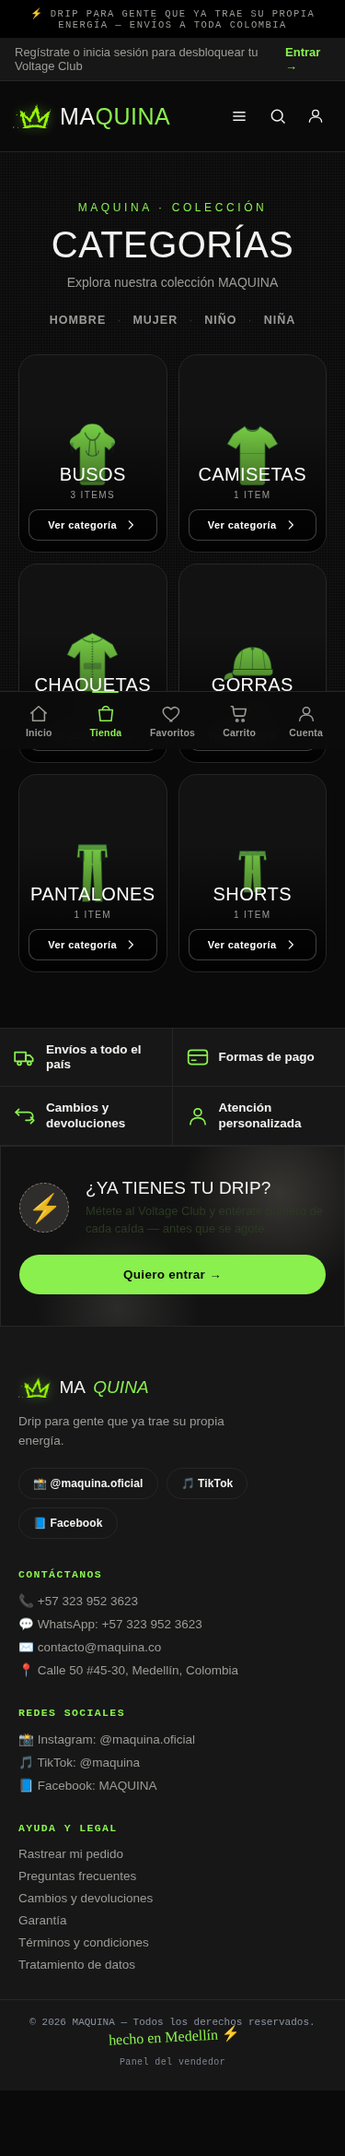
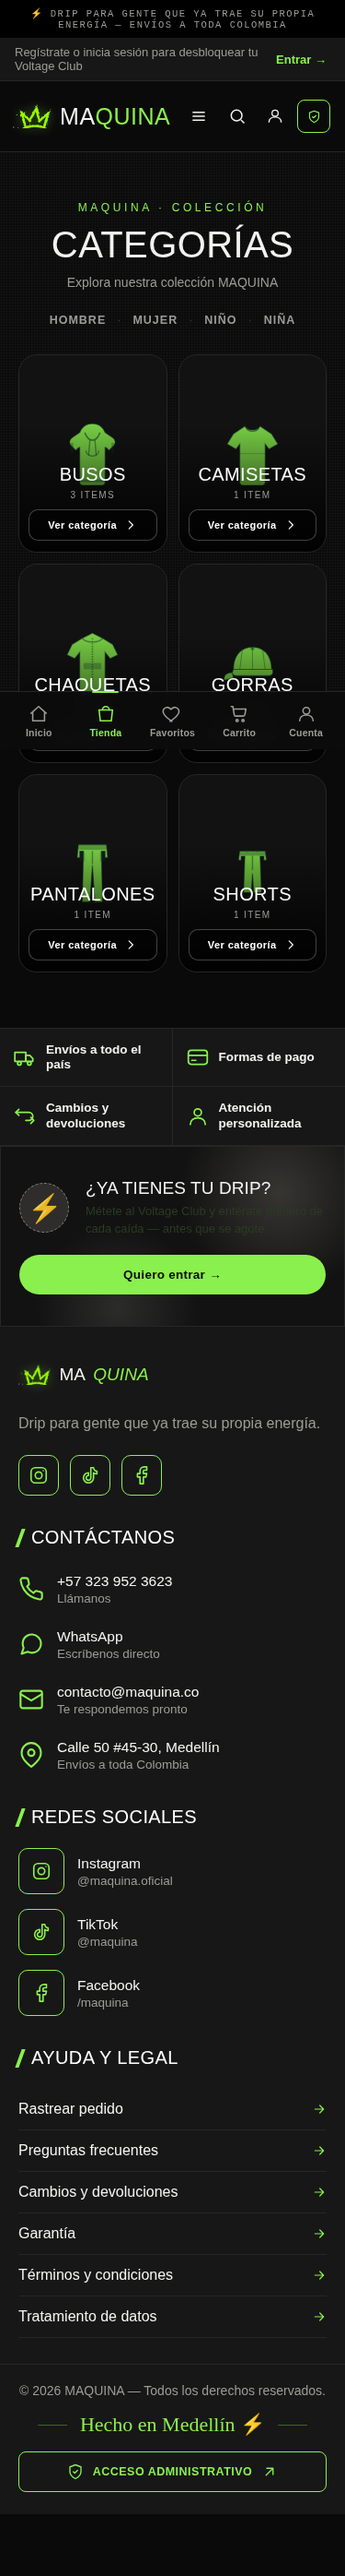
act

diff --git a/js/layout.js b/js/layout.js
@@ -81,6 +81,7 @@ function renderHeader(paginaActual = "") {
           <svg class="icon-btn" viewBox="0 0 24 24" fill="none" stroke="currentColor" stroke-width="1.8"><circle cx="11" cy="11" r="7"/><path d="m21 21-4.3-4.3"/></svg>
         </button>
         ${cuentaHtml}
+        <a href="admin.html" class="admin-access" aria-label="Acceso admin" title="Acceso admin"><svg viewBox="0 0 24 24" fill="none" stroke="currentColor" stroke-width="1.8" stroke-linecap="round" stroke-linejoin="round" aria-hidden="true"><path d="M12 22s8-4 8-10V5l-8-3-8 3v7c0 6 8 10 8 10z"/><path d="m9 12 2 2 4-4"/></svg><span class="admin-access-txt">Acceso admin</span><svg class="admin-access-arr" viewBox="0 0 24 24" fill="none" stroke="currentColor" stroke-width="2" stroke-linecap="round" stroke-linejoin="round" aria-hidden="true"><path d="M5 12h14M13 6l6 6-6 6"/></svg></a>
         <a class="fav-pill" href="favoritos.html" aria-label="Mis favoritos" title="Mis favoritos">
           <svg class="icon-btn" viewBox="0 0 24 24" fill="none" stroke="currentColor" stroke-width="1.8"><path d="M12 20.5s-7.6-4.6-10-9.3C.5 7.8 2.3 4.5 5.6 4c2-.3 3.9.7 5 2.3.1.15.3.15.4 0 1.1-1.6 3-2.6 5-2.3 3.3.5 5.1 3.8 3.6 7.2-2.4 4.7-10 9.3-10 9.3z"/></svg>
           <span id="favCount" class="fav-count ${totalFavoritosCount() === 0 ? 'hidden' : ''}">${totalFavoritosCount()}</span>
@@ -116,6 +117,7 @@ function renderHeader(paginaActual = "") {
         ${usuario
           ? `<a href="#" id="mobileLogout">Cerrar sesión</a>`
           : `<a href="login.html" class="mobile-nav-primary">Iniciar sesión</a><a href="registro.html">Crear cuenta</a>`}
+        <a href="admin.html" class="mobile-nav-admin">Acceso admin</a>
       </div>
     </div>
 

diff --git a/css/estilos.css b/css/estilos.css
@@ -2917,3 +2917,15 @@ textarea.pe-input{resize:vertical;min-height:84px;}
 /* ---- aviso (toast) del panel: por encima de los modales y sin asomarse cuando está oculto ---- */
 body:has(#adminDashView) .toast{z-index:400;bottom:calc(26px + env(safe-area-inset-bottom));transition:transform .35s cubic-bezier(.2,.9,.3,1.2),visibility 0s linear .35s;visibility:hidden;}
 body:has(#adminDashView) .toast.show{visibility:visible;transition:transform .35s cubic-bezier(.2,.9,.3,1.2),visibility 0s;}
+
+/* Acceso admin: botón discreto, separado de la cuenta de clientes */
+.admin-access{display:inline-flex;align-items:center;gap:6px;margin:0 8px 0 10px;padding:6px 11px;border:1px solid var(--acento);border-radius:8px;color:var(--acento);font-size:12px;font-weight:600;line-height:1;white-space:nowrap;background:transparent;transition:background .2s,box-shadow .2s;}
+.admin-access svg{width:15px;height:15px;flex:none;}
+.admin-access:hover,.admin-access:focus-visible{background:rgba(138,240,78,.1);box-shadow:0 0 10px var(--acento-glow);}
+.mobile-nav-foot a.mobile-nav-admin{border-color:var(--acento);color:var(--acento);background:transparent;font-size:13px;padding:10px 14px;}
+@media (max-width:1100px){
+  .admin-access{margin:0 4px;padding:0;width:40px;min-height:40px;justify-content:center;}
+  .admin-access-txt,.admin-access-arr{display:none;}
+}
+@media (max-width:480px){.admin-access{display:none;}}
+@media (min-width:481px){.mobile-nav-admin{display:none;}}
